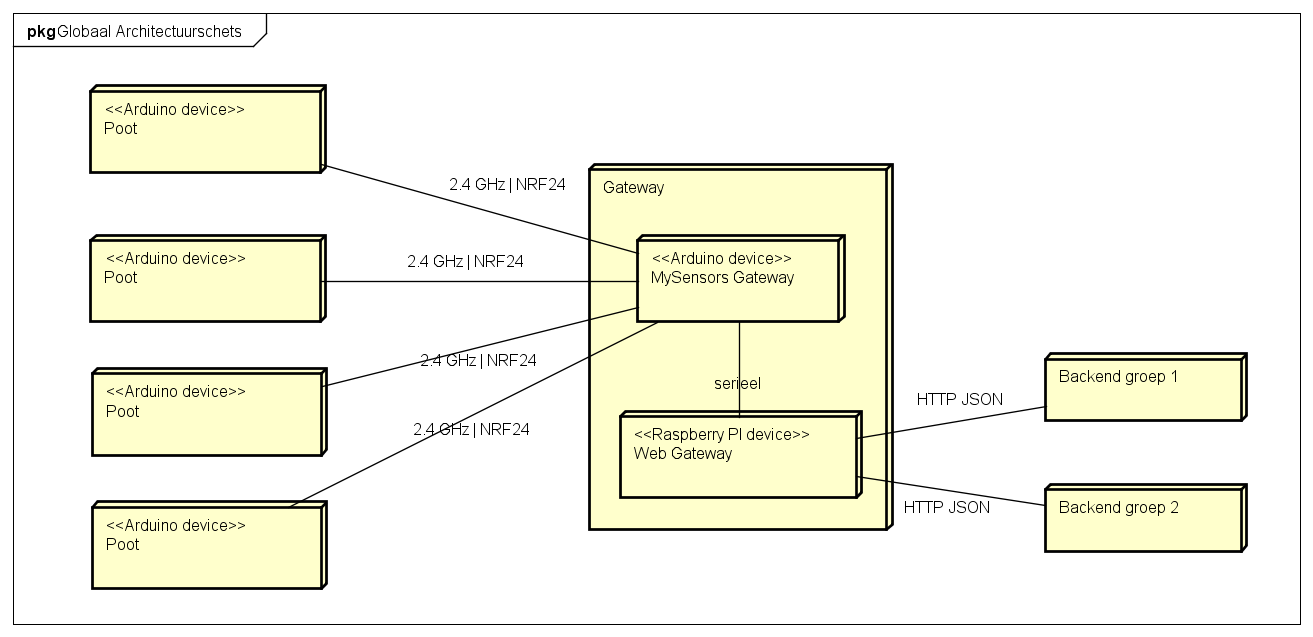
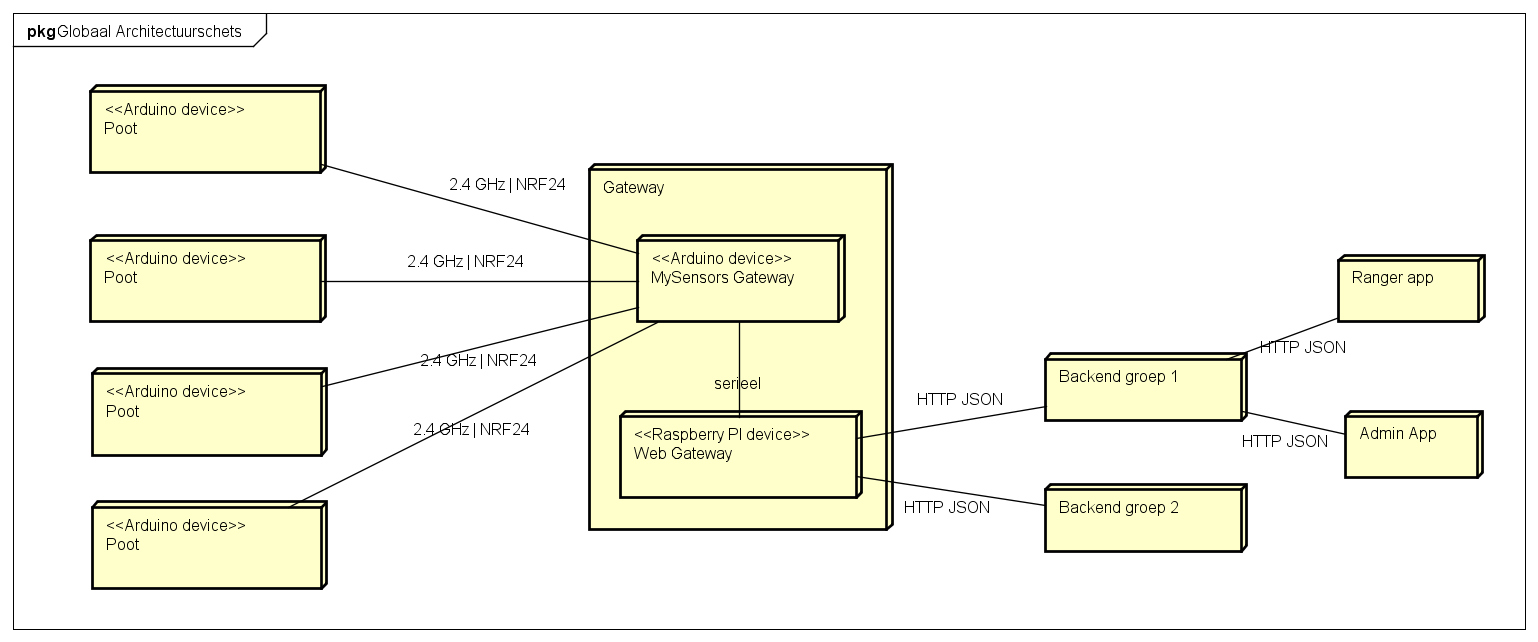
Architecturele keuzes toegevoegd

diff --git a/documentatie/architectuur/readme.md b/documentatie/architectuur/readme.md
@@ -5,6 +5,8 @@ In onderstaande afbeelding is een globale schets van de architectuur weergegeven
 
 De poten zullen communiceren met de twee backends van de twee groepen via een gateway. Deze gateway bestaat uit een Arduino en een Raspberry Pi. De Arduino zal communiceren via NRF met de poten en alle informatie doorsturen naar de Raspberry Pi. De Pi zal via HTTP/JSON communiceren met de backend's. De Pi kan op zijn beurt weer de Arduino binnen de gateawy aansturen om zo informatie bij de poten te krijgen.
 
+De gebruikers zullen werken met een van de twee client-applicaties: de Ranger App voor de rangers en de Admin App voor de administratoren. Deze twee applicaties draaien in de browser en zullen via HTTP/JSON communiceren met de Backend's.
+
 De architectuur van de poot is in onderstaande afbeelding in meer detail te zien.
 
 ![Architectuur Poot](architectuur-poot.png)
@@ -12,3 +14,21 @@ De architectuur van de poot is in onderstaande afbeelding in meer detail te zien
 De poot bestaat uit twee Arduino's. Er is één Arduino die volledig gaat over het afspelen van audio. In een later stadium zou deze Arduino ook verantwoordelijk worden voor het opslaan van nieuw ontvangde audiobestanden. De Audio Arduino wordt aangestuurd door de Master Arduino.
 
 De Master Arduino is verantwoordeling voor alle primaire functionaliteiten en het aansturen van de Audio ARduino. Zo zal de master arduino een NFC scanner hebben om passen te detecteren. Ook zal deze Master Arduino de temperatuur en luchtvochtigheid meten. De Master Arduino staat via de NRF24 chip in verbinding met de gateawy en zal zo de gateway op de hoogte houden over welke passen zijn langsgeweest. 
+
+## Keuzes
+Tijdens het opstellen van de architectuur zijn verschilende keuzes gemaakt. Hieronder zijn de belangrijkste ASR's met argumentatie te vinden.
+
+#### Gebruik gateway voor communicatie tussen poten en backend
+Het stond vast dat er een backend zou komen voor het opsalg van de bezoekersgegevens en monitoringsgegevens. Hoe gaat deze backend communiceren met de poten in het park? De poten zouden via NRF's gaan communiceren. Er moet dus een aparaat zijn dat de NRF's kan begrijpen én die de HTTP-taal van de backend kan begrijpen. De oplossing hiervoor is een gateway die verbind met de poten via NRF's en met de backend communiceert via HTTP. Ook zorgt de gateway ervoor dat de backend niet fisiek in het park hoeft te zijn. Met een gateway kunnen de poten communiceren met de backend die in de 'cloud' draait. 
+
+#### Gateway bestaande uit een Arduino + Raspberry Pi
+Er is geprobeerd een NRF24 chip aan te sluiten op een Raspberry Pi. In [dit](https://github.com/HANICA-MinorMulti/nj2017-iot-dwa-BurgersZoo1/blob/master/documentatie/onderzoeken/oplossingsRichtingenGatewayTaal/onderzoeken.md) onderzoek is te lezen dat dit niet mogelijk is. Vandaar dat er gekozen is om een Arduino met NRF24 chip aan de Raspberry Pi via Seriele poort te koppelen. Zo kan op de Raspberry Pi gewerkt worden met het seriele protocool dat breed ondersteund wordt en kan op de Arduino de [MySensors gateway software](https://www.mysensors.org/build/serial_gateway) draaien. De MySensors code op de Arduino regelt op deze manier bijvoorbeelt ook de acknowledgements en hersturing van berichten.
+
+#### Poot bestaande uit twee Arduino's
+In eerste instantie was er gekozen om de poot te maken [met 1 Arduino](https://github.com/HANICA-MinorMulti/nj2017-iot-dwa-BurgersZoo1/tree/docs/documentatie/onderzoeken/ArduinoVsRaspberry). De keuze was mede gebaseerd op het [onderzoek dat vertelde dat in theorie het mogelijk was om alle devices op de zelfde SPI bus aan te sluiten](https://github.com/HANICA-MinorMulti/nj2017-iot-dwa-BurgersZoo1/tree/docs/documentatie/onderzoeken/spi). Helaas is de praktijk anders. Na testen is gebleken dat het in praktijk niet werkt om NRF, NFC en SD allemaal op via SPI op de zelfde arduino aan te sluiten. Ook zou het niet mogelijk zijn om een Arduino te gebruiken als [MySensors repeater](https://www.mysensors.org/about/network) wanneer de arduino audio aan het afspelen is. Dit is niet praktisch, sinds repeateating functionaliteit nodig is in het grote park. Daarom is er gekozen om één Arduino te gebruiken om audio af te spelen, en een andere audio voor de communicatie.
+
+#### Losstaande client-apps's
+Er is gekozen om de Ranger App en Admin App volledig los te maken van de backend. De client apps zullen beide met de zelfde rest api van de backend wekren. De keuze is hiervoor gemaakt omdat tijdens de lessen DWA dit pattern gebruikt is.
+
+
+
